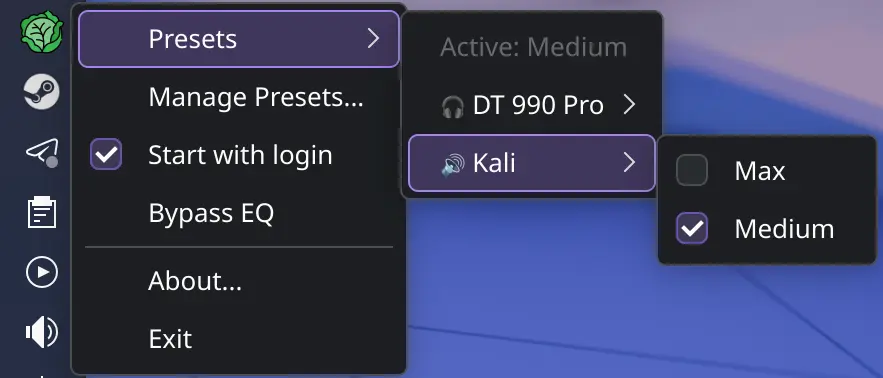
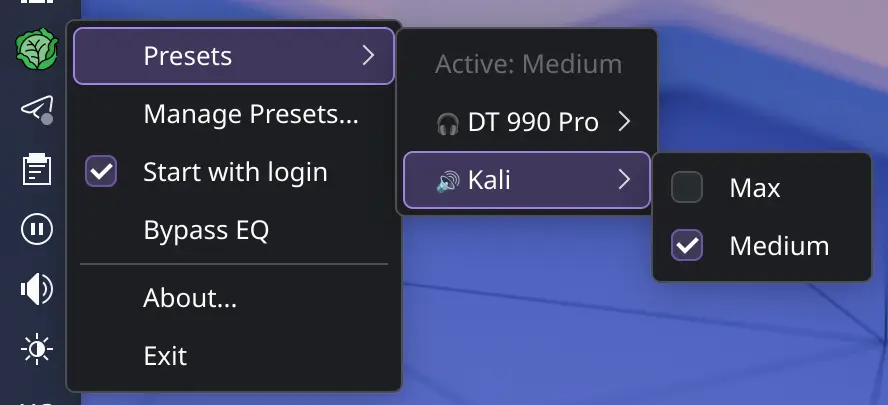
docs: update README and assets with new GUI/TUI/tray screenshots

diff --git a/README.md b/README.md
@@ -5,13 +5,17 @@ SmartEQPresetSwitcher is a cross-platform EQ preset switcher for managing, editi
 On Windows it integrates with Equalizer APO, can install or repair it, and can open the official Device Selector. On Linux it provides GUI, tray, TUI, boot-sync and Linux EQ export workflows for PipeWire-oriented systems.
 
 ---
-<img width="1610" height="903" alt="image" src="https://github.com/user-attachments/assets/5067d285-3f1b-4a7e-a834-e00f6468451f" />
-
----
-<img width="1011" height="183" alt="{543C6396-6142-49DF-8CCE-04A829D97903}" src="https://github.com/user-attachments/assets/7a27512b-e538-4497-9501-e190fe38c456" />
+<img alt="GUI screenshot" src="assets/GUI.webp" />
 
 ---
 
+<img alt="TUI screenshot" src="assets/tui.webp" />
+
+---
+
+<img alt="Tray screenshot" src="assets/tray.webp" />
+
+---
 
 ## Release state
 